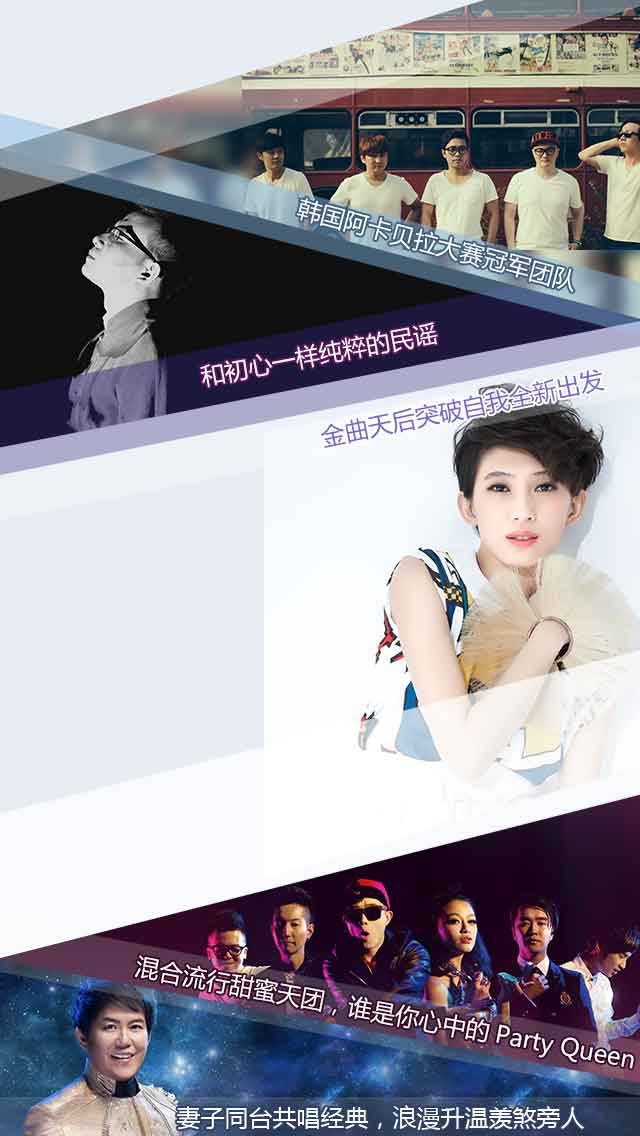
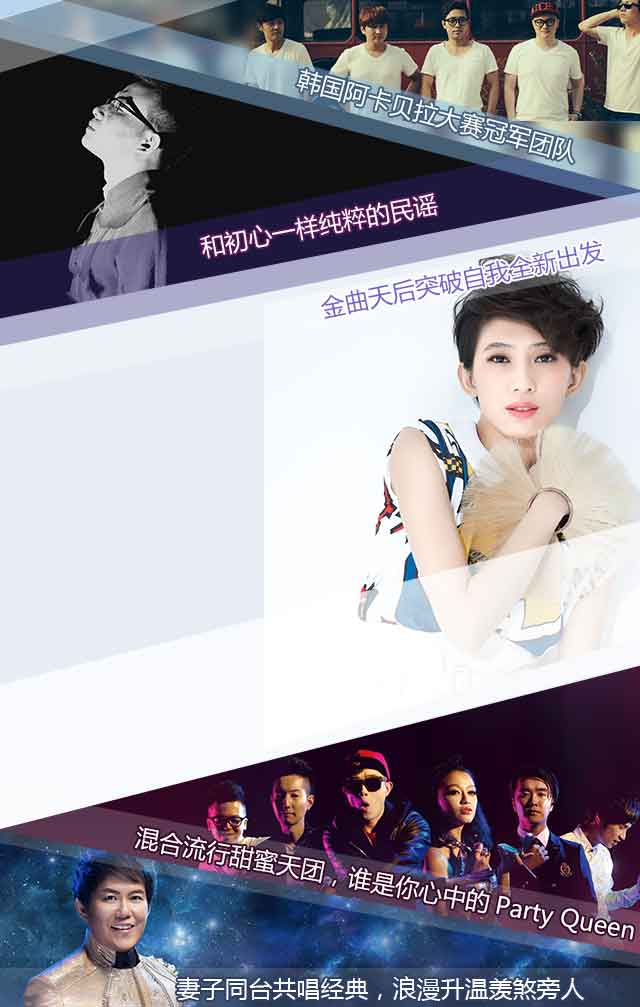
up

diff --git a/activity_lottery.html b/activity_lottery.html
@@ -28,7 +28,7 @@
 
     body {
         background: url(images/bg3.jpg) no-repeat;
-        background-size: 100%;
+        background-size: 100% 100%;
     }
 
     ul, ol{
@@ -57,7 +57,7 @@
     }
 
     header {
-        padding-top: 26%;
+        padding-top: 12%;
         overflow: hidden;
     }
 
@@ -177,8 +177,8 @@
         height: 70px;
         overflow: hidden;
         text-align: center;
-        background: url(images/icon-machine-square.png) no-repeat;
-        background-size: 100%;
+        background: url(images/icon-machine-square.png) no-repeat center;
+        background-size: 110%;
     }
 
     .slotMachine:not(:last-child) {

diff --git a/activity_main.html b/activity_main.html
@@ -26,15 +26,15 @@
 	.activity-main-container{
 		position: relative;
 		height: 100%;
-		background: url(images/bg0.jpg) no-repeat;
-		background-size: 100%;
+		background: url(images/bg1.jpg) no-repeat;
+		background-size: 100% 100%;
 	}
 
 	.activity-main-btn-group{
 		position: absolute;
 		left: 37px;
 		right: 37px;
-		top: 70%;
+		top: 64%;
 	}
 
 	.activity-main-btn-group > span{

diff --git a/activity_form.html b/activity_form.html
@@ -26,7 +26,7 @@
 
     body {
         background: url(images/bg2.jpg) no-repeat;
-        background-size: 100%;
+        background-size: 100% 100%;
     }
 
     input {
@@ -37,7 +37,7 @@
     }
 
     form {
-        padding-top: 74%;
+        padding-top: 56%;
     }
 
     fieldset,
